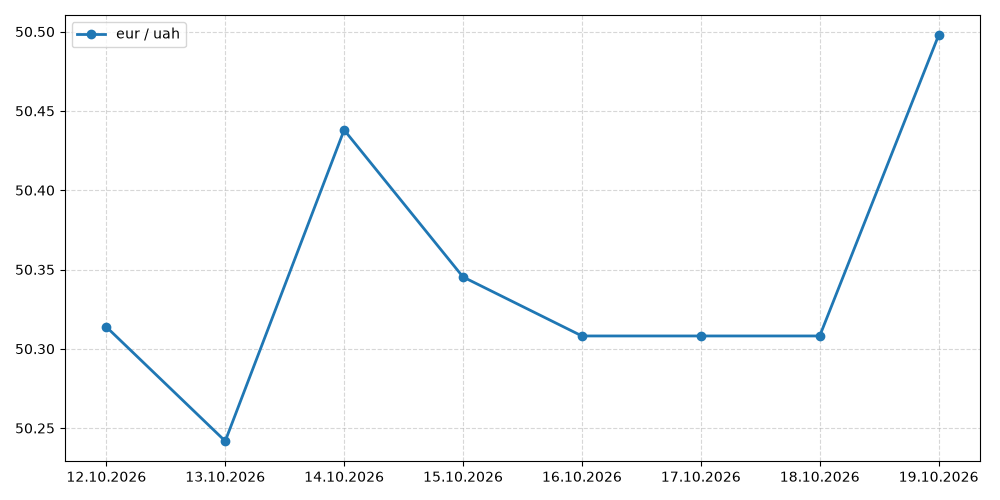
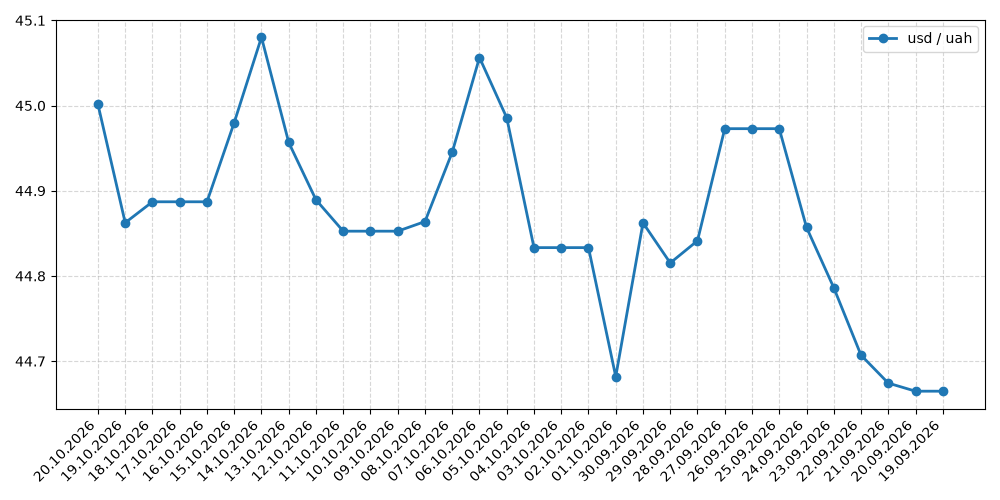
finished hard challenge logic

diff --git a/hard.py b/hard.py
@@ -11,10 +11,15 @@
 """
 
 import aiogram
+import aiohttp
+import matplotlib.pyplot as plt
+import requests
 import asyncio
 import logging
 import os
+import io
 from dotenv import load_dotenv
+from datetime import datetime, timedelta
 
 logging.basicConfig(
         level=logging.INFO,
@@ -24,6 +29,27 @@ logging.basicConfig(
 
 
 logger = logging.getLogger(__name__)
+
+def plot(data) -> io.BytesIO:
+    data_sorted = list(reversed(data))
+    dates = [item["exchangedate"] for item in data_sorted]
+    rates = [item["rate"] for item in data_sorted]
+
+    fig, ax = plt.subplots(figsize=(10, 5))
+    ax.plot(dates, rates, marker="o", color="#1f77b4", linewidth=2, label="usd / uah")
+    ax.grid(True, linestyle="--", alpha=0.5) 
+    ax.legend()
+    fig.autofmt_xdate(rotation=45)
+    fig.tight_layout()
+    fig.savefig("nbu_rates.png")
+
+    buf = io.BytesIO()
+    fig.savefig(buf, format="png")
+    buf.seek(0)
+    plt.close(fig)
+
+    return buf
+
 
 load_dotenv()
 BOT_TOKEN = os.getenv("BOT_TOKEN") 
@@ -43,23 +69,65 @@ async def bot_commands(bot: aiogram.Bot):
     await bot.set_my_commands(commands)
 
 
-
-""""
-reply_kb = aiogram.types.ReplyKeyboardMarkup(
-        keyboard=[
-            [aiogram.types.KeyboardButton(text="/scream")],
-            [aiogram.types.KeyboardButton(text="/whisper")]
-        ],
-        resize_keyboard = True,
-        one_time_keyboard = True
-        )
-"""
-
-
 @dp.message(aiogram.filters.CommandStart())
 async def handle_start(message: aiogram.types.Message):
     await message.answer("Pick what to do...", reply_markup=reply_kb)
 
+
+@dp.message(aiogram.filters.Command("scream"))
+async def handle_scream(message: aiogram.types.Message, command: iogram.filters.CommandObject):
+    if not command.args:
+        await message.answer("Введи щось після /scream , типу /scream чудік")
+        return
+    if command.args == "чудік":
+        await message.answer("САМ ЧУДІК!")
+        return
+    result = command.args.upper()
+    await message.answer(result)
+
+
+@dp.message(aiogram.filters.Command("whisper"))
+async def handle_scream(message: aiogram.types.Message, command: iogram.filters.CommandObject):
+    if not command.args:
+        await message.answer("Введи щось після /whisper , типу /whisper ПРИВІТ")
+        return
+    result = command.args.lower()
+    await message.answer(result)
+
+@dp.message(aiogram.filters.Command("nbu_usd"))
+async def handle_scream(message: aiogram.types.Message, command: iogram.filters.CommandObject):
+        await message.answer("Дата трансфер від НБУ")
+        today = datetime.now()
+        month_ag=today-timedelta(days=30)
+
+        params={
+            "start": month_ag.strftime("%Y%m%d"),
+            "finish": today.strftime("%Y%m%d"),
+            "valcode": "usd",
+            "sort": "exchangedate",
+            "order": "asc",
+            "json": ""
+        }
+        base_url = "https://bank.gov.ua/NBU_Exchange/exchange_site"
+
+        async with aiohttp.ClientSession() as session:
+            async with session.get(base_url, params=params) as resp:
+                data = await resp.json()
+        if not data:
+            await message.answer("NBU data transfer failed")
+            return
+
+        img_buff = plot(data)
+
+        png = aiogram.types.BufferedInputFile(
+                file=img_buff.getvalue(),
+                filename="nbu_usd.png"
+        )
+        await message.answer_photo(photo=png, caption="Курс НБУ за місяць")
+
+
+
+        return
 
 async def main():
     logger.info("bot polling....")
